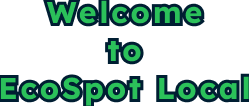
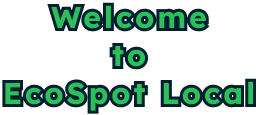
Fixed the title

diff --git a/lib/onboarding_page/ob1.dart b/lib/onboarding_page/ob1.dart
@@ -14,14 +14,7 @@ class OnBoarding1 extends StatelessWidget {
           child: Column(
             //Title
             children: [
-              Text("Welcome\n to\n EcoSpot Local",
-                  textAlign: TextAlign.center,
-                  style: TextStyle(
-                    fontSize: 30,
-                    height: 1.2,
-                    color: Colors.green,
-                    fontWeight: FontWeight.bold,
-                  )),
+              Image.asset("assets/textTitle.png"),
               SizedBox(height: 30.0),
 
               //Icon
